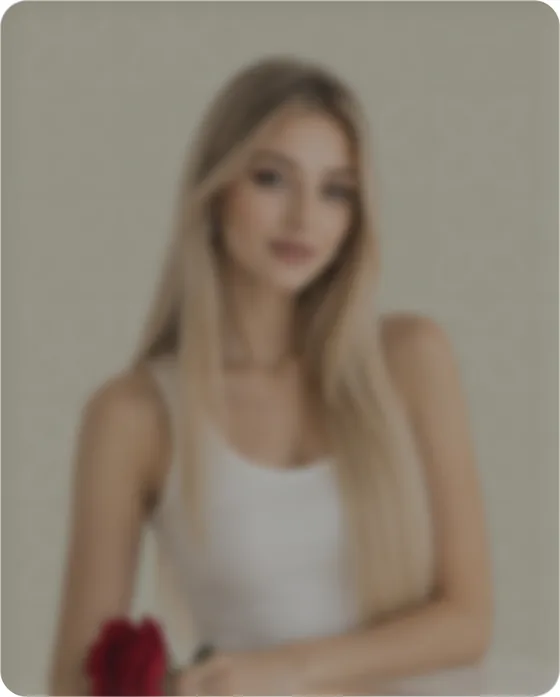
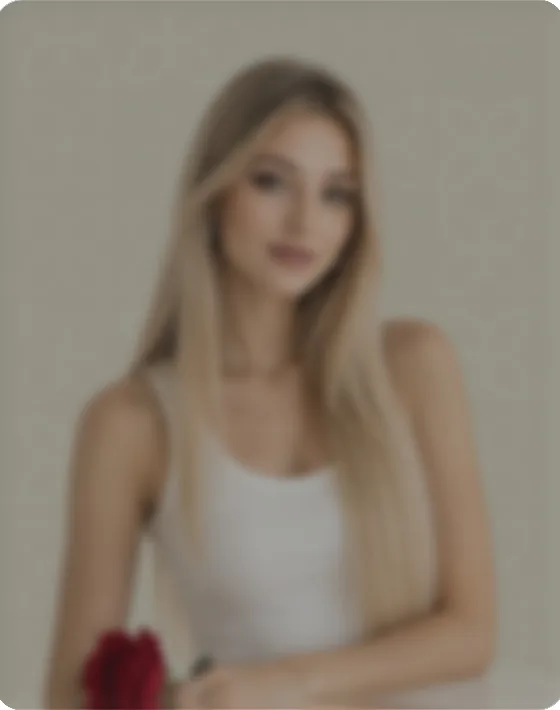
Formula: align specialist hover photos with default framing
Claude-Session: https://claude.ai/code/session_016V75APjz8i7vihiSycRtPj

diff --git a/formula/style.css b/formula/style.css
@@ -119,7 +119,7 @@ em,i{font-family:var(--display);font-style:italic;font-weight:300}
 .result__img{height:196px;border-radius:14px;margin:14px 0 16px}
 .result p{display:flex;justify-content:space-between;gap:10px;font-size:13px;white-space:nowrap}
 .doc{width:272px;height:338px;border-radius:12px;padding:20px;display:flex;flex-direction:column;color:var(--white);position:relative;overflow:hidden;background:#a39e92 var(--img) center/cover no-repeat}
-.doc::before{content:"";position:absolute;inset:-6px;background:var(--hover) center/cover no-repeat;opacity:0;transition:opacity .5s ease}
+.doc::before{content:"";position:absolute;inset:0;background:var(--hover) center/cover no-repeat;opacity:0;transition:opacity .5s ease}
 .doc>*{position:relative;opacity:0;transform:translateY(8px);transition:opacity .4s ease,transform .4s ease}
 .doc:hover::before,.doc:focus-within::before{opacity:1}
 .doc:hover>*,.doc:focus-within>*{opacity:1;transform:none}
